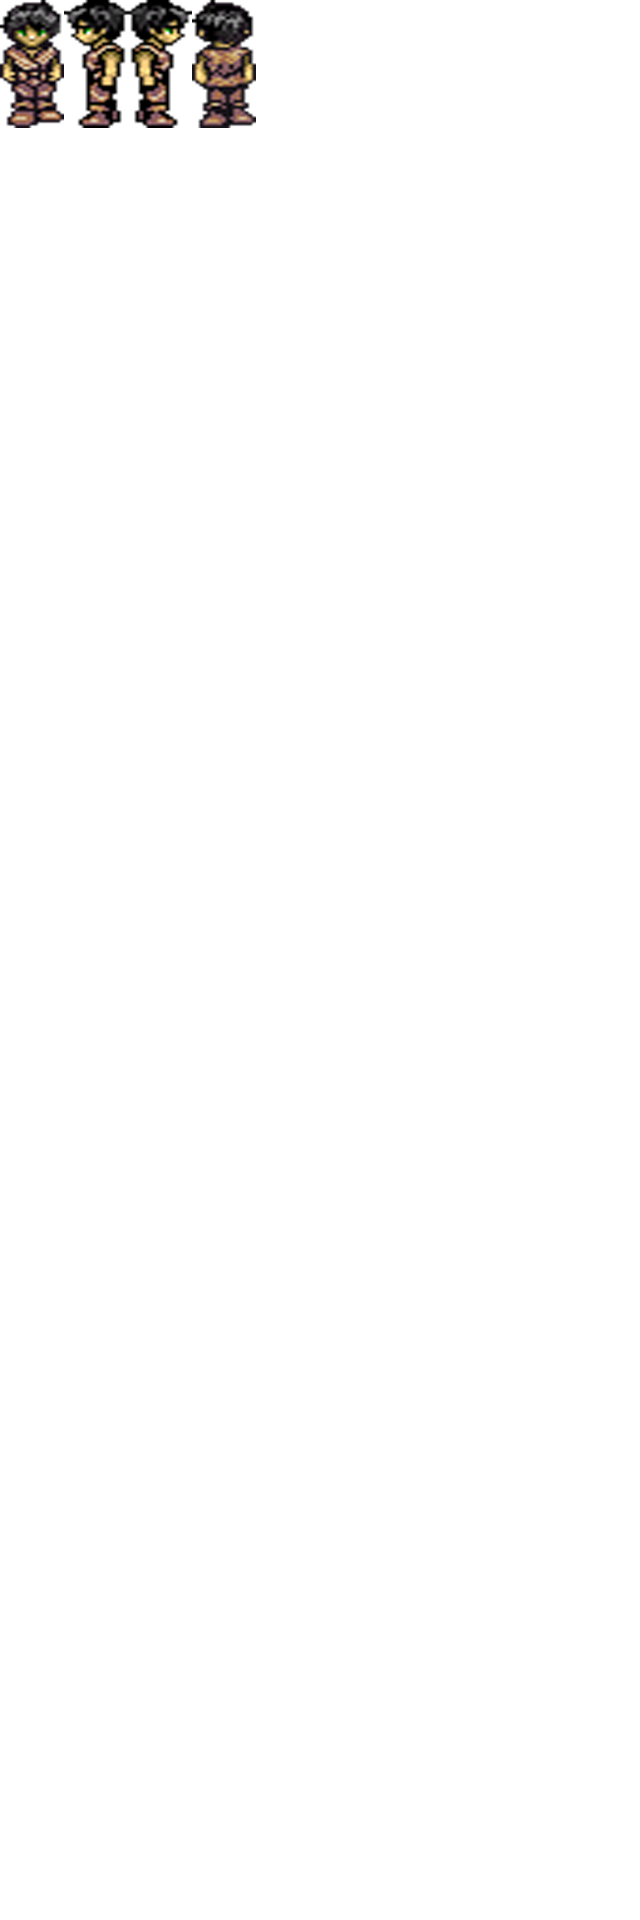
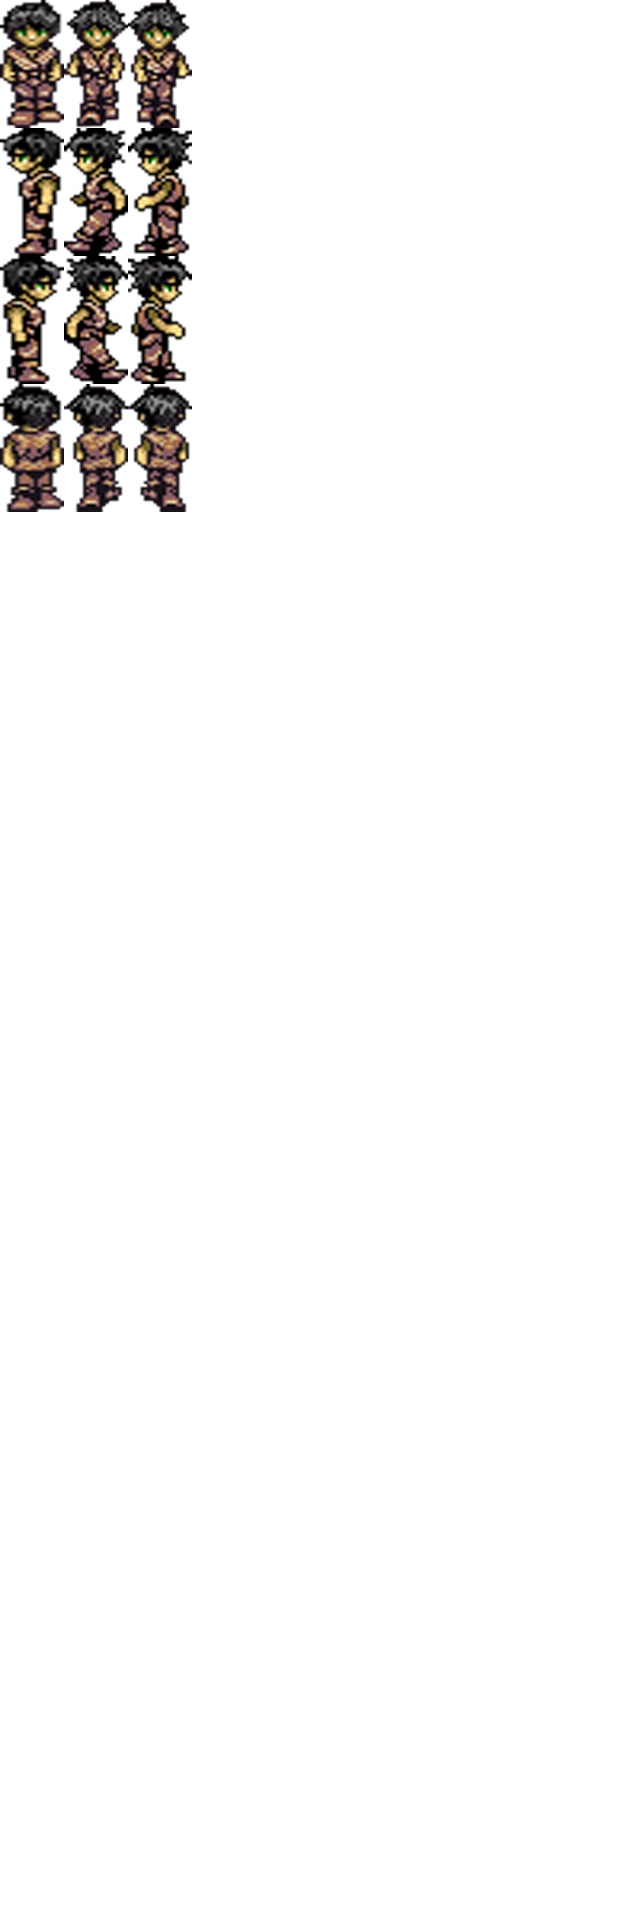
v 0.3.0
Added player animations

Changed region(s): [[0.0, 0.0, 0.4062, 0.2812]]

diff --git a/src/com/bourneless/roguelike/entity/player/Player.java b/src/com/bourneless/roguelike/entity/player/Player.java
@@ -4,7 +4,9 @@ import java.awt.Graphics2D;
 import java.awt.event.KeyEvent;
 import java.awt.image.BufferedImage;
 
+import com.bourneless.engine.animation.Animation;
 import com.bourneless.engine.main.Main;
+import com.bourneless.engine.math.Vector2;
 import com.bourneless.roguelike.entity.Entity;
 import com.bourneless.roguelike.entity.EntityType;
 import com.bourneless.roguelike.map.Map;
@@ -15,8 +17,19 @@ public class Player extends Entity {
 	private int lastKey;
 	private boolean travelUp, travelDown, travelLeft, travelRight;
 	private int playerXOff, playerYOff;
-	
+
 	private int walkSpeed = 5;
+
+	private BufferedImage[] moveLeft = Main.resourceLoader.moveLeft;
+	private BufferedImage[] moveRight = Main.resourceLoader.moveRight;
+	private BufferedImage[] moveUp = Main.resourceLoader.moveUp;
+	private BufferedImage[] moveDown = Main.resourceLoader.moveDown;
+
+	private int animationSpeed = 100;
+	private Animation moveLeftAnimation = new Animation(moveLeft, animationSpeed);
+	private Animation moveRightAnimation = new Animation(moveRight, animationSpeed);
+	private Animation moveUpAnimation = new Animation(moveUp, animationSpeed);
+	private Animation moveDownAnimation = new Animation(moveDown, animationSpeed);
 
 	public Player(Tile tile, BufferedImage image, int tileX, int tileY) {
 		super(tile, image, tileX, tileY);
@@ -24,8 +37,24 @@ public class Player extends Entity {
 	}
 
 	public void paint(Graphics2D g) {
-		g.drawImage(image, pos.x + xOffset + playerXOff, pos.y - image.getHeight() / 2
-				+ yOffset + playerYOff, null);
+		g.drawImage(image, pos.x + xOffset + playerXOff,
+				pos.y - image.getHeight() / 2 + yOffset + playerYOff, null);
+		
+		if(travelLeft)
+			moveLeftAnimation.paint(g, new Vector2(pos.x + xOffset + playerXOff,
+				pos.y - image.getHeight() / 2 + yOffset + playerYOff));
+		
+		if(travelRight)
+			moveRightAnimation.paint(g, new Vector2(pos.x + xOffset + playerXOff,
+				pos.y - image.getHeight() / 2 + yOffset + playerYOff));
+		
+		if(travelUp)
+			moveUpAnimation.paint(g, new Vector2(pos.x + xOffset + playerXOff,
+				pos.y - image.getHeight() / 2 + yOffset + playerYOff));
+		
+		if(travelDown)
+			moveDownAnimation.paint(g, new Vector2(pos.x + xOffset + playerXOff,
+				pos.y - image.getHeight() / 2 + yOffset + playerYOff));
 	}
 
 	public void update(int xOffset, int yOffset, Map map) {
@@ -38,6 +67,7 @@ public class Player extends Entity {
 				playerXOff -= walkSpeed;
 			} else {
 				travelLeft = false;
+				moveLeftAnimation.stop();
 				this.pos.x -= 64;
 				this.tile = map.getRoom().getTiles()[pos.x / 64][pos.y / 64];
 				playerXOff = 0;
@@ -48,6 +78,7 @@ public class Player extends Entity {
 				playerXOff += walkSpeed;
 			} else {
 				travelRight = false;
+				moveRightAnimation.stop();
 				this.pos.x += 64;
 				this.tile = map.getRoom().getTiles()[pos.x / 64][pos.y / 64];
 				playerXOff = 0;
@@ -58,6 +89,7 @@ public class Player extends Entity {
 				playerYOff -= walkSpeed;
 			} else {
 				travelUp = false;
+				moveUpAnimation.stop();
 				this.pos.y -= 64;
 				this.tile = map.getRoom().getTiles()[pos.x / 64][pos.y / 64];
 				playerYOff = 0;
@@ -66,9 +98,10 @@ public class Player extends Entity {
 			if (pos.y + playerYOff < map.getRoom().getTiles()[(pos.x / 64)][(pos.y / 64) + 1]
 					.getPos().y) {
 				playerYOff += walkSpeed;
-				
+
 			} else {
 				travelDown = false;
+				moveDownAnimation.stop();
 				this.pos.y += 64;
 				this.tile = map.getRoom().getTiles()[pos.x / 64][pos.y / 64];
 				playerYOff = 0;
@@ -80,39 +113,46 @@ public class Player extends Entity {
 		System.out.println(e.getKeyCode());
 		if (e.getKeyCode() == 65 && lastKey != 65) {
 			// A Key
-			if (this.image.equals(Main.resourceLoader.player[1])) {
+			if (this.image.equals(Main.resourceLoader.player[3])) {
 				if (map.getRoom().getTiles()[(pos.x / 64) - 1][(pos.y / 64)]
 						.isPassable()) {
 					travelLeft = true;
-					
-					
+
+					moveLeftAnimation.start(true);
+
 				}
 			} else {
-				this.image = Main.resourceLoader.player[1];
+				this.image = Main.resourceLoader.player[3];
 			}
 			lastKey = 65;
 		} else if (e.getKeyCode() == 68 && lastKey != 68) {
 			// D Key
-			if (this.image.equals(Main.resourceLoader.player[2])) {
+			if (this.image.equals(Main.resourceLoader.player[6])) {
 				if (map.getRoom().getTiles()[(pos.x / 64) + 1][(pos.y / 64)]
 						.isPassable()) {
 					travelRight = true;
+
+					moveRightAnimation.start(true);
+
 				}
 			} else {
-				this.image = Main.resourceLoader.player[2];
+				this.image = Main.resourceLoader.player[6];
 			}
 			lastKey = 68;
 		}
 
 		if (e.getKeyCode() == 87 && lastKey != 87) {
 			// W Key
-			if (this.image.equals(Main.resourceLoader.player[3])) {
+			if (this.image.equals(Main.resourceLoader.player[9])) {
 				if (map.getRoom().getTiles()[(pos.x / 64)][(pos.y / 64) - 1]
 						.isPassable()) {
 					travelUp = true;
+					
+					moveUpAnimation.start(true);
+					
 				}
 			} else {
-				this.image = Main.resourceLoader.player[3];
+				this.image = Main.resourceLoader.player[9];
 			}
 			lastKey = 87;
 		} else if (e.getKeyCode() == 83 && lastKey != 83) {
@@ -121,6 +161,9 @@ public class Player extends Entity {
 				if (map.getRoom().getTiles()[(pos.x / 64)][(pos.y / 64) + 1]
 						.isPassable()) {
 					travelDown = true;
+					
+					moveDownAnimation.start(true);
+					
 				}
 			} else {
 				this.image = Main.resourceLoader.player[0];

diff --git a/src/com/bourneless/engine/main/ResourceLoader.java b/src/com/bourneless/engine/main/ResourceLoader.java
@@ -41,6 +41,13 @@ public class ResourceLoader {
 	// Map
 
 	public BufferedImage[] rooms;
+	
+	// Animations
+	
+	public BufferedImage[] moveLeft = new BufferedImage[3];
+	public BufferedImage[] moveRight = new BufferedImage[3];
+	public BufferedImage[] moveUp = new BufferedImage[3];
+	public BufferedImage[] moveDown = new BufferedImage[3];
 
 	// Music
 
@@ -90,10 +97,11 @@ public class ResourceLoader {
 				iteration++;
 			}
 		}
-
+		
+		// Player Animations
 		BufferedImage playerSheet = getBufferedImage("res/entity/player/playerSheet.png");
-		rows = 10;
-		cols = 10;
+		rows = 4;
+		cols = 3;
 		iteration = 0;
 		player = new BufferedImage[rows * cols];
 
@@ -104,6 +112,22 @@ public class ResourceLoader {
 				iteration++;
 			}
 		}
+		
+		moveDown[0] = player[0];
+		moveDown[1] = player[1];
+		moveDown[2] = player[2];
+		
+		moveLeft[0] = player[3];
+		moveLeft[1] = player[4];
+		moveLeft[2] = player[5];
+		
+		moveRight[0] = player[6];
+		moveRight[1] = player[7];
+		moveRight[2] = player[8];
+		
+		moveUp[0] = player[9];
+		moveUp[1] = player[10];
+		moveUp[2] = player[11];
 
 		// Map
 
